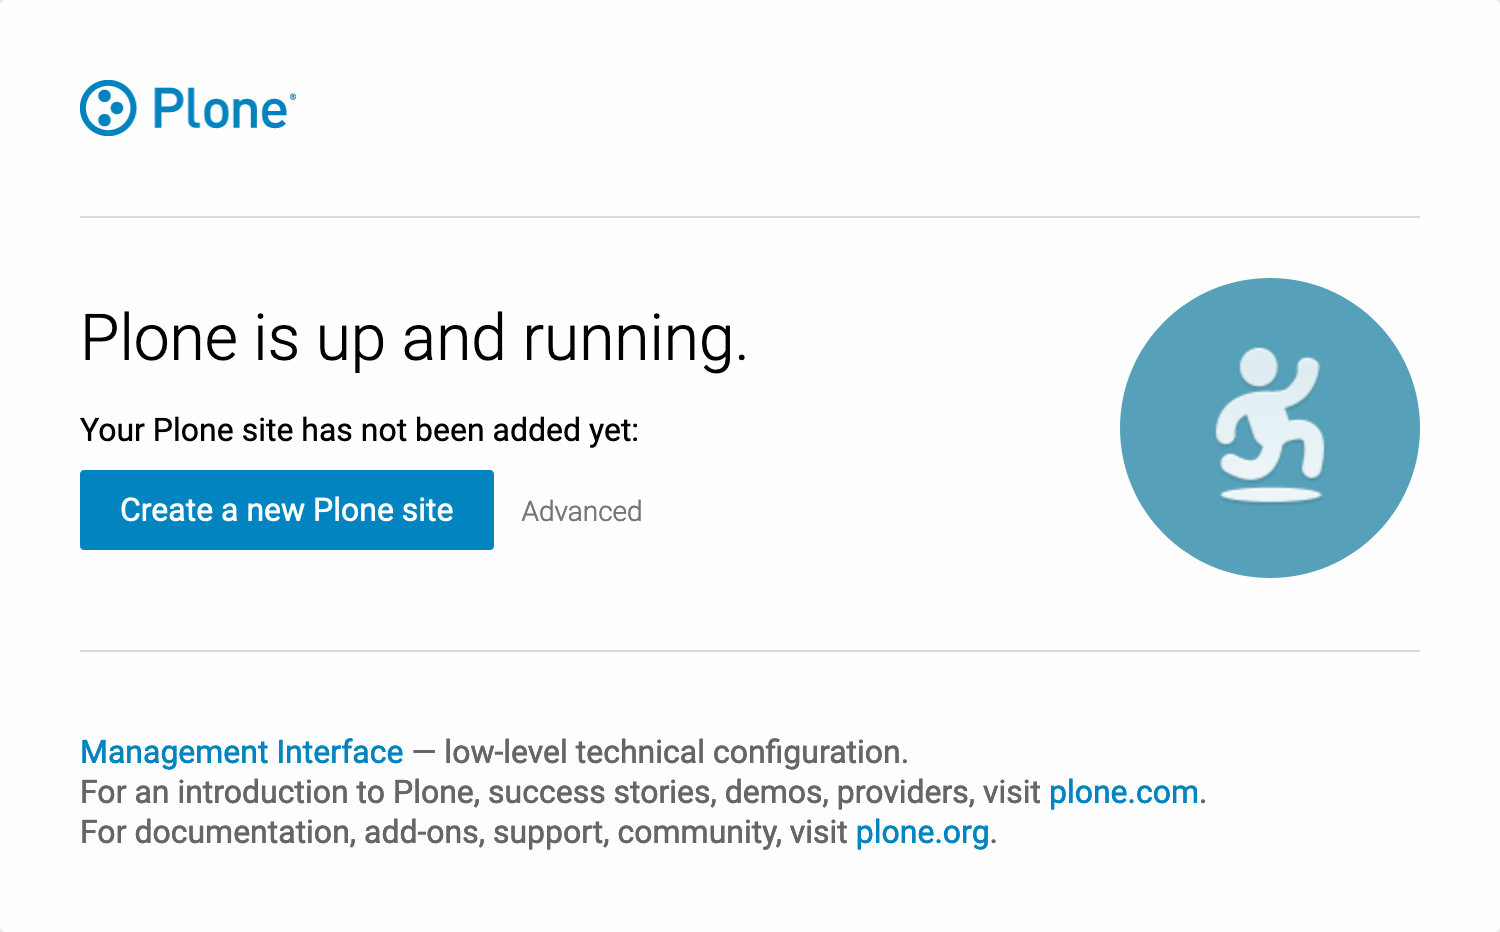
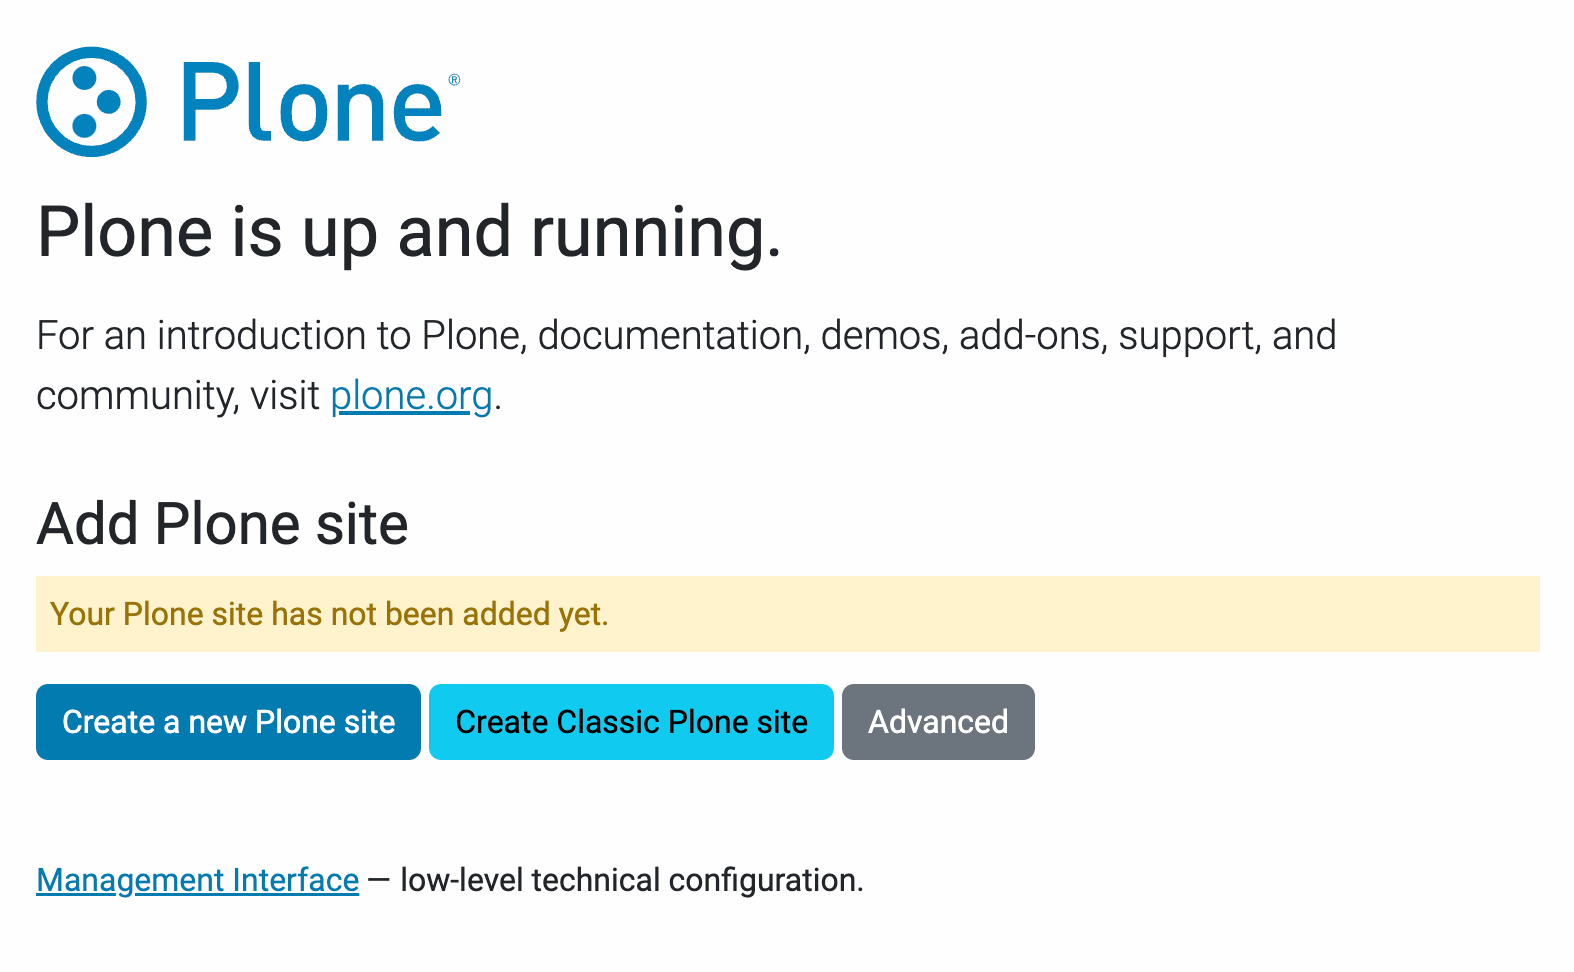
do not install ploneconf.site when creating first site

Changed region(s): [[0.0, 0.28, 0.9813, 0.9335], [0.0, 0.0311, 0.4907, 0.28]]

diff --git a/docs/mastering-plone/features.md b/docs/mastering-plone/features.md
@@ -22,13 +22,11 @@ myst:
 
 ## Starting and Stopping Plone
 
-We control Plone with a small script called "runwsgi":
+We control Plone with a makefile:
 
 ```shell
-$ runwsgi -d instance/etc/zope.ini
+$ make start
 ```
-
-The `-d` parameter starts Plone in debug mode!
 
 You can stop it by pressing {kbd}`ctrl + c`.
 
@@ -48,11 +46,8 @@ As you can see, there is no Plone site yet!
 We now have a running Zope with a database but no content.
 But luckily there is a button to create a Plone site.
 
-Click on the link {guilabel}`Advanced` next to the button {guilabel}`Create a Plone site`.
+Click on the link {guilabel}`Create a new Plone site`.
 If the site asks you to login, use login `admin` and password `secret` (they are taken from the file `instance.yaml`).
-This opens a form to create a Plone site and select additional features.
-Use {samp}`Plone` as the site id.
-Select **ploneconf.site** as a add-on that should be installed with your new site.
 
 ```{figure} _static/features_create_site_form.png
 ```
